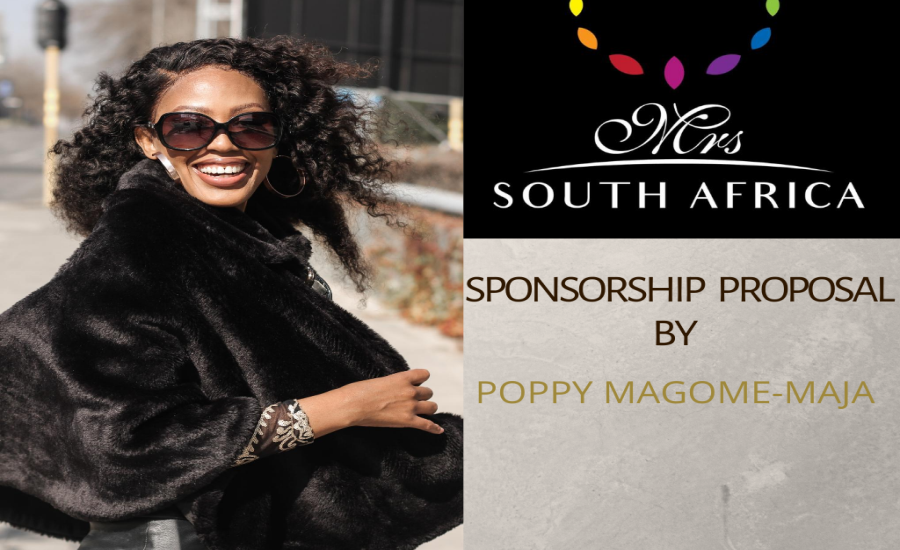
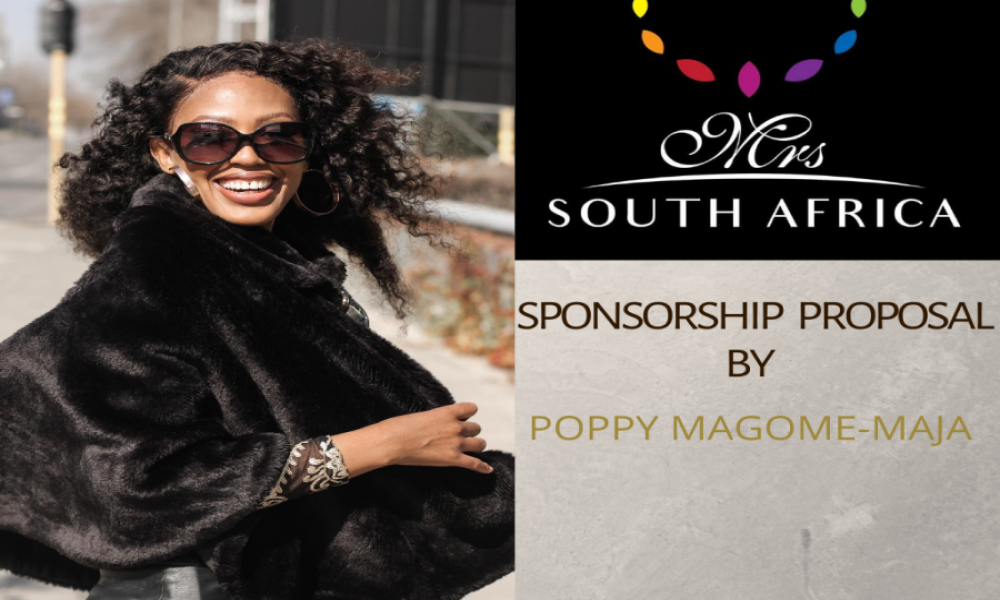
gall and abt

diff --git a/index.html b/index.html
@@ -126,7 +126,7 @@
             <div class="box-shadow-full">
               <div class="row">
                 <div class="col-md-6">
-                  <img src="assets/img/abt-min.jpg" class="img-fluid rounded b-shadow-a" alt="">
+                  <img src="assets/img/ABT.jpeg" class="img-fluid rounded b-shadow-a" alt="">
                 </div>
                 <div class="col-md-6">
                   <div class="about-me pt-4 pt-md-0">
@@ -415,31 +415,6 @@
                             </div>
                           </div>
 
-                          <div class="col-lg-4 col-md-6 portfolio-item filter-fashion filter-mrs">
-                            <div class="work-box">
-                              <a href="assets/img/cat1.jpg" data-gall="portfolioGallery" class="venobox">
-                                <div class="work-img">
-                                  <img src="assets/img/cat1.jpg" alt="" class="img-fluid">
-                                </div>
-                              </a>
-                              <div class="work-content">
-                                <div class="row">
-                                  <div class="col-sm-8">
-                                    <h2 class="w-title"> Nomination </h2>
-                                    <div class="w-more">
-                                      <span class="w-ctegory">Fashion</span>
-                                    </div>
-                                  </div>
-                                  <div class="col-sm-4">
-                                    <div class="w-like">
-                                      <a href="fashion.html#nomination" title="More Details"> <span class="ion-ios-plus-outline"></span></a>
-                                    </div>
-                                  </div>
-                                </div>
-                              </div>
-                            </div>
-                          </div>
-
                           <div class="col-lg-4 col-md-6 portfolio-item filter-beauty filter-mrs">
                             <div class="work-box">
                               <a href="assets/img/cat1.jpg" data-gall="portfolioGallery" class="venobox">
@@ -492,9 +467,9 @@
 
                           <div class="col-lg-4 col-md-6 portfolio-item filter-beauty filter-mrs">
                             <div class="work-box">
-                              <a href="assets/img/shampoo.jpeg" data-gall="portfolioGallery" class="venobox">
+                              <a href="assets/img/marc%20Anthony%20Cover.jpg" data-gall="portfolioGallery" class="venobox">
                                 <div class="work-img">
-                                  <img src="assets/img/shampoo.jpeg" alt="" class="img-fluid">
+                                  <img src="assets/img/marc%20Anthony%20Cover.jpg" alt="" class="img-fluid">
                                 </div>
                               </a>
                               <div class="work-content">
@@ -715,6 +690,30 @@
                             </div>
                           </div>
 
+                          <div class="col-lg-4 col-md-6 portfolio-item filter-fashion filter-mrs">
+                            <div class="work-box">
+                              <a href="assets/img/cat1.jpg" data-gall="portfolioGallery" class="venobox">
+                                <div class="work-img">
+                                  <img src="assets/img/cat1.jpg" alt="" class="img-fluid">
+                                </div>
+                              </a>
+                              <div class="work-content">
+                                <div class="row">
+                                  <div class="col-sm-8">
+                                    <h2 class="w-title"> Nomination </h2>
+                                    <div class="w-more">
+                                      <span class="w-ctegory">Fashion</span>
+                                    </div>
+                                  </div>
+                                  <div class="col-sm-4">
+                                    <div class="w-like">
+                                      <a href="fashion.html#nomination" title="More Details"> <span class="ion-ios-plus-outline"></span></a>
+                                    </div>
+                                  </div>
+                                </div>
+                              </div>
+                            </div>
+                          </div>
 
                         </div>
                       </div>
@@ -746,11 +745,6 @@
         <div class="row">
           <div class="col-sm-12">
             <div class="box-shadow-full">
-<!--              <div class="title-box-2">-->
-<!--                <h5 class="title-left" id="abt-me-text">-->
-<!--                  Philantropy-->
-<!--                </h5>-->
-<!--              </div>-->
               <div class="row" data-aos="">
                 <div class="col-lg-12 d-flex justify-content-center">
                   <ul id="portfolio-flters">
@@ -873,28 +867,20 @@
                     </ol>
                       <div class="carousel-inner" role="listbox">
                         <div class="carousel-item active">
-                          <img class="d-block w-100" src="assets/img/canv1.png" class="img-fluid" alt="Responsive image">
+                          <img class="d-block w-100" src="assets/img/Gallery.jpg" class="img-fluid" alt="">
+                        </div>
+
+                        <div class="carousel-item ">
+                          <img class="d-block w-100" src="assets/img/Gallery%201.jpg" class="img-fluid" alt="">
                         </div>
                         <div class="carousel-item ">
-                          <img class="d-block w-100" src="assets/img/2.png" class="img-fluid" alt="">
+                          <img class="d-block w-100" src="assets/img/Gallery%202.jpg" class="img-fluid" alt="">
                         </div>
                         <div class="carousel-item ">
-                          <img class="d-block w-100" src="assets/img/3.png" class="img-fluid" alt="">
+                          <img class="d-block w-100" src="assets/img/Gallery%205.jpg" class="img-fluid" alt="">
                         </div>
                         <div class="carousel-item ">
-                          <img class="d-block w-100" src="assets/img/44.png" class="img-fluid" alt="">
-                        </div>
-                        <div class="carousel-item ">
-                          <img class="d-block w-100" src="assets/img/55.png" class="img-fluid" alt="">
-                        </div>
-                        <div class="carousel-item ">
-                          <img class="d-block w-100" src="assets/img/66.png" class="img-fluid" alt="">
-                        </div>
-                        <div class="carousel-item ">
-                          <img class="d-block w-100" src="assets/img/77.png" class="img-fluid" alt="">
-                        </div>
-                        <div class="carousel-item ">
-                          <img class="d-block w-100" src="assets/img/88.png" class="img-fluid" alt="">
+                          <img class="d-block w-100" src="assets/img/Gallery%206.jpg" class="img-fluid" alt="">
                         </div>
                       </div>
                     <a class="carousel-control-prev" href="#carouselExampleIndicators-two" role="button" data-slide="prev">
